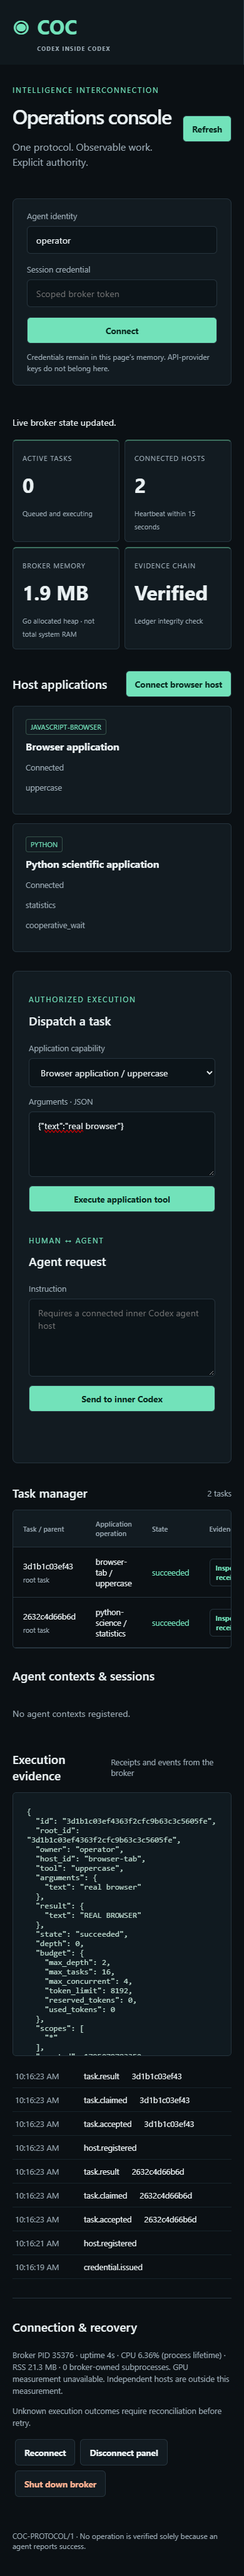
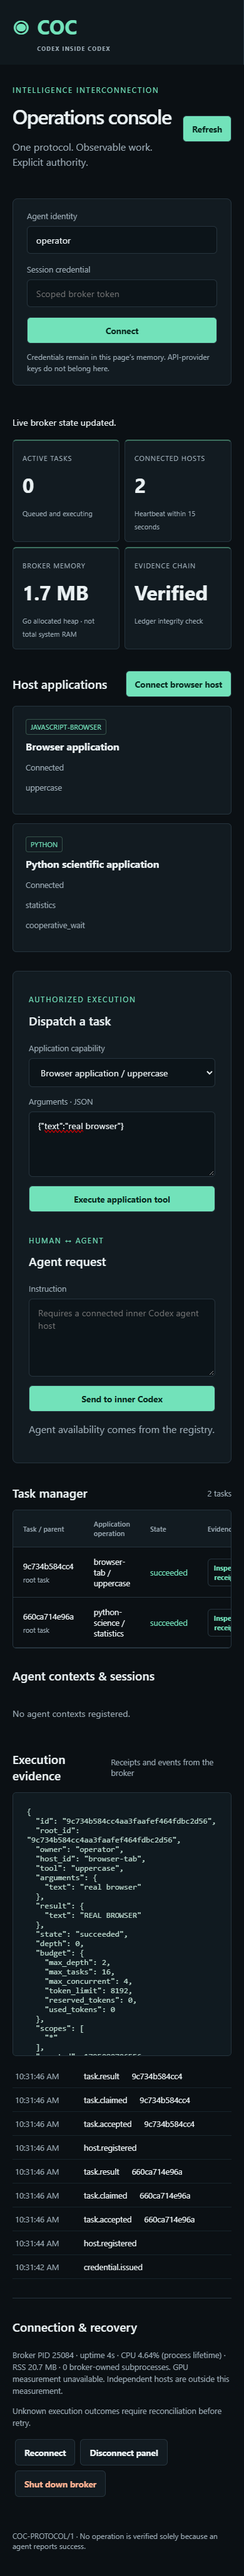
Prepare alpha.2 with verified clean-checkout build and test fixes

diff --git a/scripts/acceptance-report.py b/scripts/acceptance-report.py
@@ -14,7 +14,7 @@ def junit(path):
     counts={k:sum(int(s.attrib.get(k,0)) for s in suites) for k in ('tests','failures','errors','skipped')}
     status='FAIL' if counts['failures'] or counts['errors'] else ('SKIPPED' if counts['tests']==counts['skipped'] else 'PASS')
     return {'status':status,'counts':counts,'evidence':path,'sha256':hashlib.sha256(file.read_bytes()).hexdigest()}
-report={'version':'0.1.0-alpha.1','generated_at':datetime.datetime.now(datetime.timezone.utc).isoformat(),'production_ready':False,
+report={'version':'0.1.0-alpha.2','generated_at':datetime.datetime.now(datetime.timezone.utc).isoformat(),'production_ready':False,
         'builds':read('evidence/builds/latest.json'),'default_suites':read('evidence/tests/latest.json'),
         'full_regression':junit('evidence/tests/full-regression.xml'),
         'live_owned_codex':junit('evidence/tests/live-codex.xml'),'live_usage_accounting':junit('evidence/tests/live-accounting.xml'),

diff --git a/kernels/python/src/coc/codex.py b/kernels/python/src/coc/codex.py
@@ -41,7 +41,7 @@ class AppServer:
             stdin=subprocess.PIPE,stdout=subprocess.PIPE,stderr=subprocess.DEVNULL,text=True,encoding='utf-8',bufsize=1,
             creationflags=subprocess.CREATE_NO_WINDOW if os.name=='nt' else 0)
         self.reader=threading.Thread(target=self._read,daemon=True);self.reader.start()
-        self.initialized=self.request('initialize',{'clientInfo':{'name':'coc_engine','title':'COC bridge','version':'0.1.0-alpha.1'},'capabilities':{'experimentalApi':True}},timeout=30)
+        self.initialized=self.request('initialize',{'clientInfo':{'name':'coc_engine','title':'COC bridge','version':'0.1.0-alpha.2'},'capabilities':{'experimentalApi':True}},timeout=30)
         self.send({'method':'initialized','params':{}})
         return self
     def _read(self):

diff --git a/kernels/python/src/coc/codex_socket.py b/kernels/python/src/coc/codex_socket.py
@@ -59,7 +59,7 @@ class AttachedAppServer(AppServer):
         self.detached.clear();self.messages=queue.Queue(maxsize=10000);self.pending=[]
         self.reader=threading.Thread(target=self._read,daemon=True);self.reader.start()
         try:
-            self.initialized=self.request('initialize',{'clientInfo':{'name':'coc_attached_bridge','version':'0.1.0-alpha.1'},'capabilities':{'experimentalApi':True}})
+            self.initialized=self.request('initialize',{'clientInfo':{'name':'coc_attached_bridge','version':'0.1.0-alpha.2'},'capabilities':{'experimentalApi':True}})
             self.send({'method':'initialized','params':{}});return self
         except Exception:self.close();raise
     def _read(self):

diff --git a/kernels/python/src/coc/mcp.py b/kernels/python/src/coc/mcp.py
@@ -14,7 +14,7 @@ class MCPBridge:
         if method=='initialize':
             if p.get('protocolVersion')!='2025-06-18':raise ValueError('supported protocol: 2025-06-18')
             self.initialized=True
-            return {'protocolVersion':'2025-06-18','capabilities':{'tools':{'listChanged':False}},'serverInfo':{'name':'coc','version':'0.1.0-alpha.1'}}
+            return {'protocolVersion':'2025-06-18','capabilities':{'tools':{'listChanged':False}},'serverInfo':{'name':'coc','version':'0.1.0-alpha.2'}}
         if not self.initialized:raise PermissionError('initialize first')
         if method=='ping':return {}
         if method=='tools/list':

diff --git a/scripts/package.py b/scripts/package.py
@@ -11,7 +11,7 @@ import zipfile
 root=Path(__file__).resolve().parents[1]
 acceptance=json.loads((root/'evidence/acceptance.json').read_text())
 if acceptance['local_core_acceptance']!='PASS':raise SystemExit('full local core acceptance must pass before packaging')
-version='0.1.0-alpha.1';stamp=datetime.datetime.now(datetime.timezone.utc).strftime('%Y%m%dT%H%M%SZ')
+version='0.1.0-alpha.2';stamp=datetime.datetime.now(datetime.timezone.utc).strftime('%Y%m%dT%H%M%SZ')
 platform='windows-x64' if os.name=='nt' else 'linux-x64'
 directory=root/'dist/packages'/f'COC-{version}-{platform}-{stamp}'
 directory.mkdir(parents=True,exist_ok=False)

diff --git a/kernels/python/src/coc/__init__.py b/kernels/python/src/coc/__init__.py
@@ -1,5 +1,5 @@
 """CODEX INSIDE CODEX: interoperable application capabilities."""
 from .client import Client, COCError, envelope
 
-__version__ = "0.1.0a1"
+__version__ = "0.1.0a2"
 __all__ = ["Client", "COCError", "envelope"]

diff --git a/docs/operations/RELEASE-0.1.0-alpha.2.md b/docs/operations/RELEASE-0.1.0-alpha.2.md
@@ -1,0 +1,41 @@
+# COC 0.1.0-alpha.2
+
+This engineering prerelease connects independently registered applications to
+scoped agent tasks through a Go broker with durable SQLite state. All seven
+required technologies have executable components and integration evidence.
+
+The operator panel's validator now works under strict CSP without unsafe-eval.
+Real browser chat uses an existing Codex App Server with a new application thread
+and invokes independent Python and JavaScript hosts. Owned-server mode, bounded
+repair, usage accounting and live cancellation also have separate passing tests.
+DRAGONHYDRA was treated as a read-only reference, with no runtime dependency.
+
+Windows acceptance: all build stages passed; Go/Rust/Java/JS/TS suites passed;
+Python's complete default suite passed 25 tests and deliberately skipped five
+live tests. Four separately run live Codex tests passed. Django, MCP, protocol
+conformance, browser execution, fault injection and recovery are included.
+
+The archive was independently extracted, hashes checked, Python installed offline
+and four packaged hosts executed against its packaged broker. Exact bytes,
+checksums and results are in `evidence/releases/latest.json`. Python 3.14 Windows
+x64, Java 21+ and Node 22+ are needed for the packaged demonstration runtimes.
+Run `COC.ps1 INSTALL`, `START -Demo`, `OPEN`, then `STOP` inside the extraction.
+
+Direct OpenAI authentication/model discovery passed; inference is **BLOCKED** by
+HTTP 429 quota/billing and the three-request allowance is exhausted. No retry was
+made after the exhausted-budget directive. Local llama.cpp requires a separately
+authorized credential. Other optional providers are not live-verified.
+
+Active-turn Codex recovery, Android, production clinical use, distributed HA,
+comprehensive OS resource containment and general exactly-once effects are not
+claimed. Completed-thread reconnect and bounded local fault scenarios passed.
+Linux evidence is reported separately by CI. This is not a production-ready
+universal engine; remaining work is tracked in STATUS.md and the roadmap.
+
+The archive excludes credentials, private runtime configuration and databases.
+Native binaries are unsigned. API keys must never be used as panel login tokens.
+
+This milestone includes explicit Java classpaths for Linux and initialization of
+the test workspace on clean checkouts. The earlier alpha.1 tag and draft are
+retained as engineering history; use this corrected milestone. Stop the local
+Windows demo before rebuilding because the JVM holds its JAR open.

diff --git a/docs/operations/RUNBOOK.md b/docs/operations/RUNBOOK.md
@@ -59,6 +59,9 @@ are separate from the broker's authoritative task storage.
 `VERIFY` builds all mandatory components, runs default suites, scans publication
 files and summarizes evidence. Nonzero failures stop execution. Five opt-in live
 tests are skipped by default and their earlier live evidence is reported separately.
+Stop the local demo runtime before BUILD/TEST/VERIFY on Windows: the running JVM
+holds its JAR open, so a rebuild cannot replace it. STOP preserves recorded tasks
+and does not terminate the independently owned Codex App Server.
 `PACKAGE` requires passing local acceptance and creates checksums and a manifest.
 `scripts/verify-package.py` verifies bytes, installs offline in a fresh extraction
 and executes four host languages against the packaged broker. Keep its release

diff --git a/README.md b/README.md
@@ -4,7 +4,7 @@ An application integration engine with a Go coordination broker, Rust native
 boundary, Python agent orchestration and interoperable Java, JavaScript and
 TypeScript clients. Django provides optional authenticated administration.
 
-**Engineering prerelease: 0.1.0-alpha.1.** This is executable software with live
+**Engineering prerelease: 0.1.0-alpha.2.** This is executable software with live
 integration evidence. It is not a production-ready universal application adapter.
 Applications explicitly publish tools; the engine does not acquire arbitrary
 application or operating-system privileges.

diff --git a/STATUS.md b/STATUS.md
@@ -1,6 +1,6 @@
 # Mission 001 engineering ledger
 
-Last verified: 2026-11-19, Windows x64. Milestone: **0.1.0-alpha.1**.
+Last verified: 2026-11-19, Windows x64. Milestone: **0.1.0-alpha.2**.
 The local engine is executable; the full universal-engine mission remains open.
 
 | Area | Status | Execution evidence |
